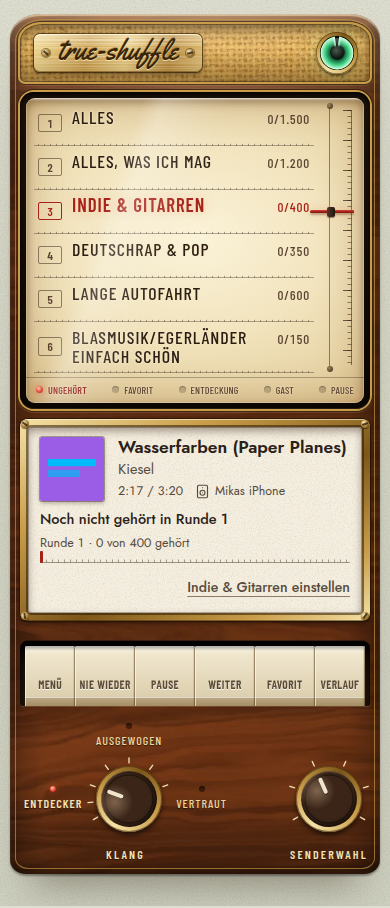
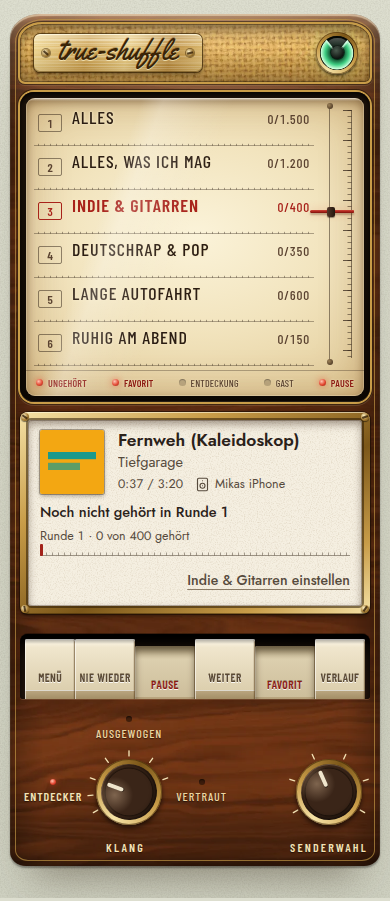
fix(client): furnished sideboard, slash-only URL breaks, thin key slots
Second finish-review batch:

- The desktop sideboard has rounded, shaded ends and even overhangs on
  both sides instead of a square-cut edge.
- Remote page: each command address sits on its own line under its key
  and breaks only after a slash.
- Keys standing on a sheet sit in a thin recessed slot (a narrow dark
  rim at the top and sides, the lip at the slot's edge), the same for
  paired keys, on phone and desktop.
- The pause key keeps its engraving PAUSE; the sunk position and the
  red legend show that it is latched. Its accessible name still
  switches between "Pause" and "Weiter abspielen".
- The running order wraps in full instead of clipping a third line.

Claude-Session: https://claude.ai/code/session_01TdwRpyasM3dhXhHgYmAUMt

diff --git a/src/client/styles.css b/src/client/styles.css
@@ -449,26 +449,36 @@ p {
 	.main::after {
 		content: "";
 		display: block;
-		height: 34px;
-		margin: 0 -26px 0 -48px;
-		border-radius: 3px 3px 2px 2px;
+		height: 32px;
+		margin: 0 -14px;
+		border-radius: 10px 10px 6px 6px / 7px 7px 6px 6px;
 		background:
 			linear-gradient(
+				90deg,
+				rgba(0, 0, 0, 0.32),
+				rgba(0, 0, 0, 0) 22px,
+				rgba(0, 0, 0, 0) calc(100% - 22px),
+				rgba(0, 0, 0, 0.32)
+			),
+			linear-gradient(
 				180deg,
-				rgba(255, 238, 208, 0.42) 0,
-				rgba(255, 238, 208, 0.12) 8px,
-				rgba(0, 0, 0, 0.3) 9px,
-				rgba(0, 0, 0, 0) 13px,
-				rgba(0, 0, 0, 0) 80%,
-				rgba(0, 0, 0, 0.25)
+				rgba(255, 238, 208, 0.48) 0,
+				rgba(255, 238, 208, 0.14) 7px,
+				rgba(0, 0, 0, 0.3) 8px,
+				rgba(0, 0, 0, 0) 12px,
+				rgba(0, 0, 0, 0) 72%,
+				rgba(0, 0, 0, 0.3)
 			),
 			linear-gradient(var(--wood-dim), var(--wood-dim)),
 			var(--tex-walnut) 0 70% / 1100px auto,
 			var(--walnut);
 		box-shadow:
+			inset 0 1px 0 rgba(255, 240, 210, 0.55),
+			inset 0 -2px 3px rgba(0, 0, 0, 0.35),
 			0 1px 0 rgba(0, 0, 0, 0.35),
 			0 20px 30px -18px var(--cast);
 	}
+
 	.shell--split .strip {
 		display: none;
 	}
@@ -2470,10 +2480,10 @@ p {
 .row-actions {
 	--focus: var(--focus-on-light);
 	display: flex;
-	flex-wrap: wrap;
+	flex-wrap: nowrap;
 	gap: 0;
-	padding: 5px 5px 0;
-	border-radius: 7px 7px 3px 3px;
+	padding: 3px 2px 0;
+	border-radius: 3px 3px 0 0;
 	overflow: hidden;
 	background: linear-gradient(180deg, #050201, var(--slot) 40%, #24160c);
 	box-shadow: inset 0 4px 8px rgba(0, 0, 0, 0.9);
@@ -2518,10 +2528,14 @@ p {
 		0 1px 0 rgba(255, 255, 255, 0.85),
 		0 -1px 0 rgba(50, 32, 10, 0.4);
 	cursor: pointer;
+	/* seated in a slot: a thin dark rim at the top and sides, the lip at the slot's edge */
 	box-shadow:
-		0 0 0 4px var(--slot),
-		0 0 0 5px rgba(0, 0, 0, 0.3),
-		inset 0 1px 0 rgba(255, 255, 255, 0.9),
+		0 -3px 0 0 var(--slot),
+		2px -3px 0 0 var(--slot),
+		-2px -3px 0 0 var(--slot),
+		2px 0 0 0 var(--slot),
+		-2px 0 0 0 var(--slot),
+		inset 0 7px 6px -5px rgba(0, 0, 0, 0.55),
 		inset 1px 0 0 rgba(255, 255, 255, 0.45),
 		inset -1px 0 0 rgba(90, 64, 30, 0.4);
 	transition: filter var(--t-fast) var(--ease);
@@ -2546,9 +2560,12 @@ p {
 		var(--ivory-lip) 100%
 	);
 	box-shadow:
-		0 0 0 4px var(--slot),
-		0 0 0 5px rgba(0, 0, 0, 0.3),
-		inset 0 5px 7px rgba(30, 18, 4, 0.5);
+		0 -3px 0 0 var(--slot),
+		2px -3px 0 0 var(--slot),
+		-2px -3px 0 0 var(--slot),
+		2px 0 0 0 var(--slot),
+		-2px 0 0 0 var(--slot),
+		inset 0 7px 8px -3px rgba(30, 18, 4, 0.6);
 }
 
 .key:disabled,
@@ -2599,9 +2616,11 @@ p {
 
 /* inside a shared slot the keys touch, the slot is the row's */
 .row-actions > .key {
-	flex: 1 1 auto;
+	flex: 1 1 0;
+	min-width: 0;
 	border-radius: 2px 2px 0 0;
 	box-shadow:
+		inset 0 7px 6px -5px rgba(0, 0, 0, 0.55),
 		inset 0 1px 0 rgba(255, 255, 255, 0.9),
 		inset 1px 0 0 rgba(255, 255, 255, 0.5),
 		inset -1px 0 0 rgba(90, 64, 30, 0.5);
@@ -2908,11 +2927,6 @@ label.row:hover {
 /* the column rules */
 .order__title {
 	grid-column: 2;
-	display: -webkit-box;
-	-webkit-box-orient: vertical;
-	-webkit-line-clamp: 2;
-	line-clamp: 2;
-	overflow: hidden;
 	padding: 11px 10px 10px 12px;
 	border-left: 1px solid var(--rule-strong);
 	font-size: 15px;
@@ -3008,8 +3022,6 @@ label.row:hover {
 	align-self: center;
 	padding-top: 8px;
 	padding-bottom: 8px;
-	-webkit-line-clamp: none;
-	line-clamp: none;
 }
 
 .order--now .order__artist::before {
@@ -3476,7 +3488,20 @@ select.input {
 .input--code,
 .code {
 	font-family: var(--font-code);
-	overflow-wrap: anywhere;
+}
+
+.row--cmd {
+	display: grid;
+	grid-template-columns: minmax(0, 1fr) auto;
+	column-gap: 12px;
+	row-gap: 6px;
+	padding: 10px 2px 12px;
+}
+
+.cmd__url {
+	grid-column: 1 / -1;
+	overflow-wrap: normal;
+	word-break: normal;
 }
 
 .input--code {

diff --git a/src/client/screens/remote.tsx b/src/client/screens/remote.tsx
@@ -15,6 +15,25 @@ const COMMANDS: { action: RemoteAction; name: string; what: string }[] = [
 	},
 ];
 
+/** An address breaks only after a slash, never inside a word. */
+function Url({ text }: { text: string }) {
+	const parts = text.split("/");
+	return (
+		<>
+			{parts.map((p, i) => (
+				<span key={i}>
+					{p}
+					{i < parts.length - 1 ? (
+						<>
+							/<wbr />
+						</>
+					) : null}
+				</span>
+			))}
+		</>
+	);
+}
+
 function stamp(at: number): string {
 	return `${day(at)}, ${clock(at)}`;
 }
@@ -167,13 +186,15 @@ export function RemoteScreen() {
 			<Section title="Die Befehle" id="remote-commands">
 				<ul class="list">
 					{COMMANDS.map((c) => (
-						<li key={c.action} class="row">
+						<li key={c.action} class="row row--cmd">
 							<span class="row__main">
 								<span class="row__title">{c.name}</span>
 								<span class="row__sub row__sub--wrap">{c.what}</span>
-								<span class="row__sub row__sub--wrap code">POST {base + c.action}</span>
 							</span>
 							<CopyButton text={base + c.action} what={`Adresse für „${c.name}“`} />
+							<span class="cmd__url code">
+								POST <Url text={base + c.action} />
+							</span>
 						</li>
 					))}
 				</ul>

diff --git a/src/client/screens/home.tsx b/src/client/screens/home.tsx
@@ -530,7 +530,8 @@ function Keyboard({ np }: { np: NowPlaying | null }) {
 					aria-label={np?.isPlaying ? "Pause" : "Weiter abspielen"}
 					onClick={() => act(np?.isPlaying ? "pause" : "resume")}
 				>
-					<span class="pkey__legend">{paused ? "Spielen" : "Pause"}</span>
+					{/* Engraved once: the key sinks and its legend reddens while paused. */}
+					<span class="pkey__legend">Pause</span>
 				</button>
 				<button
 					type="button"
